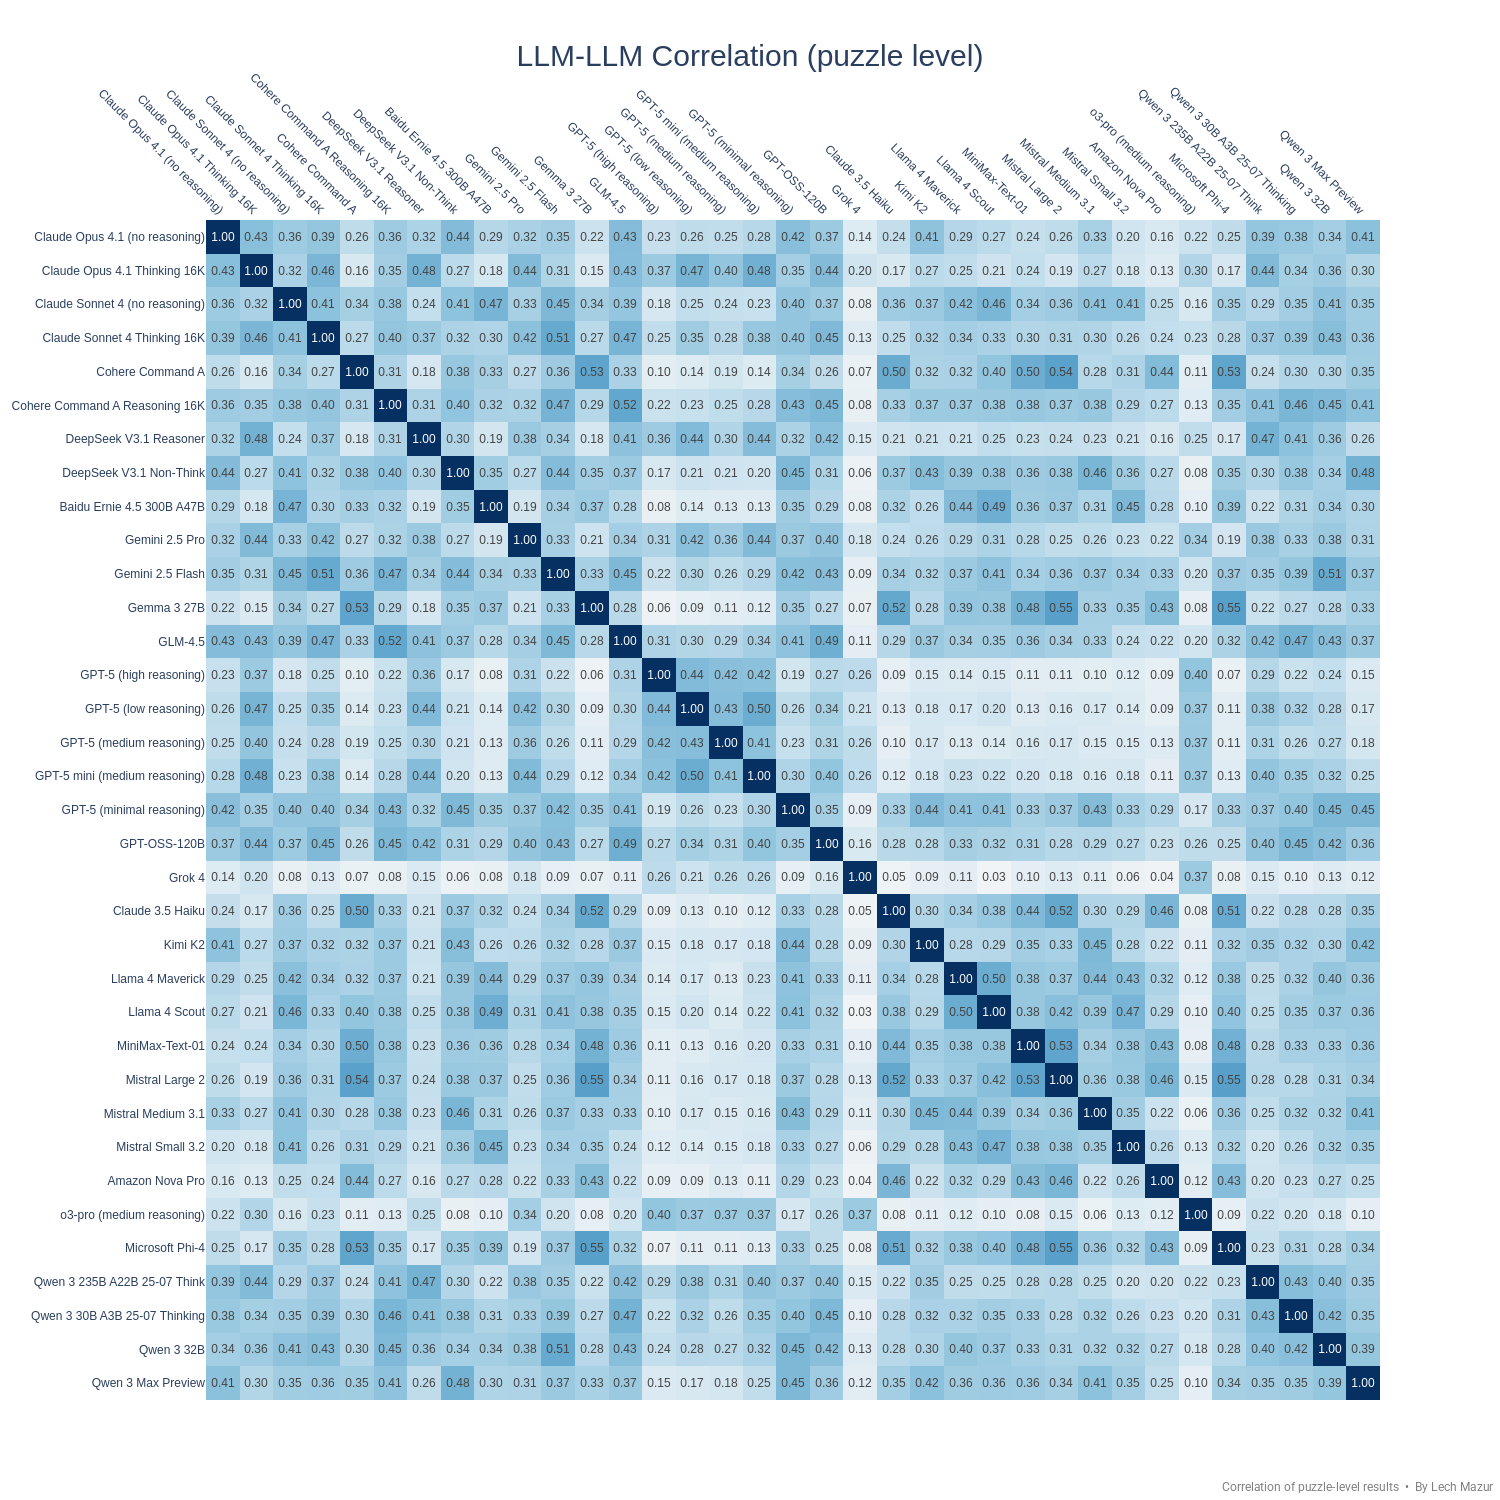
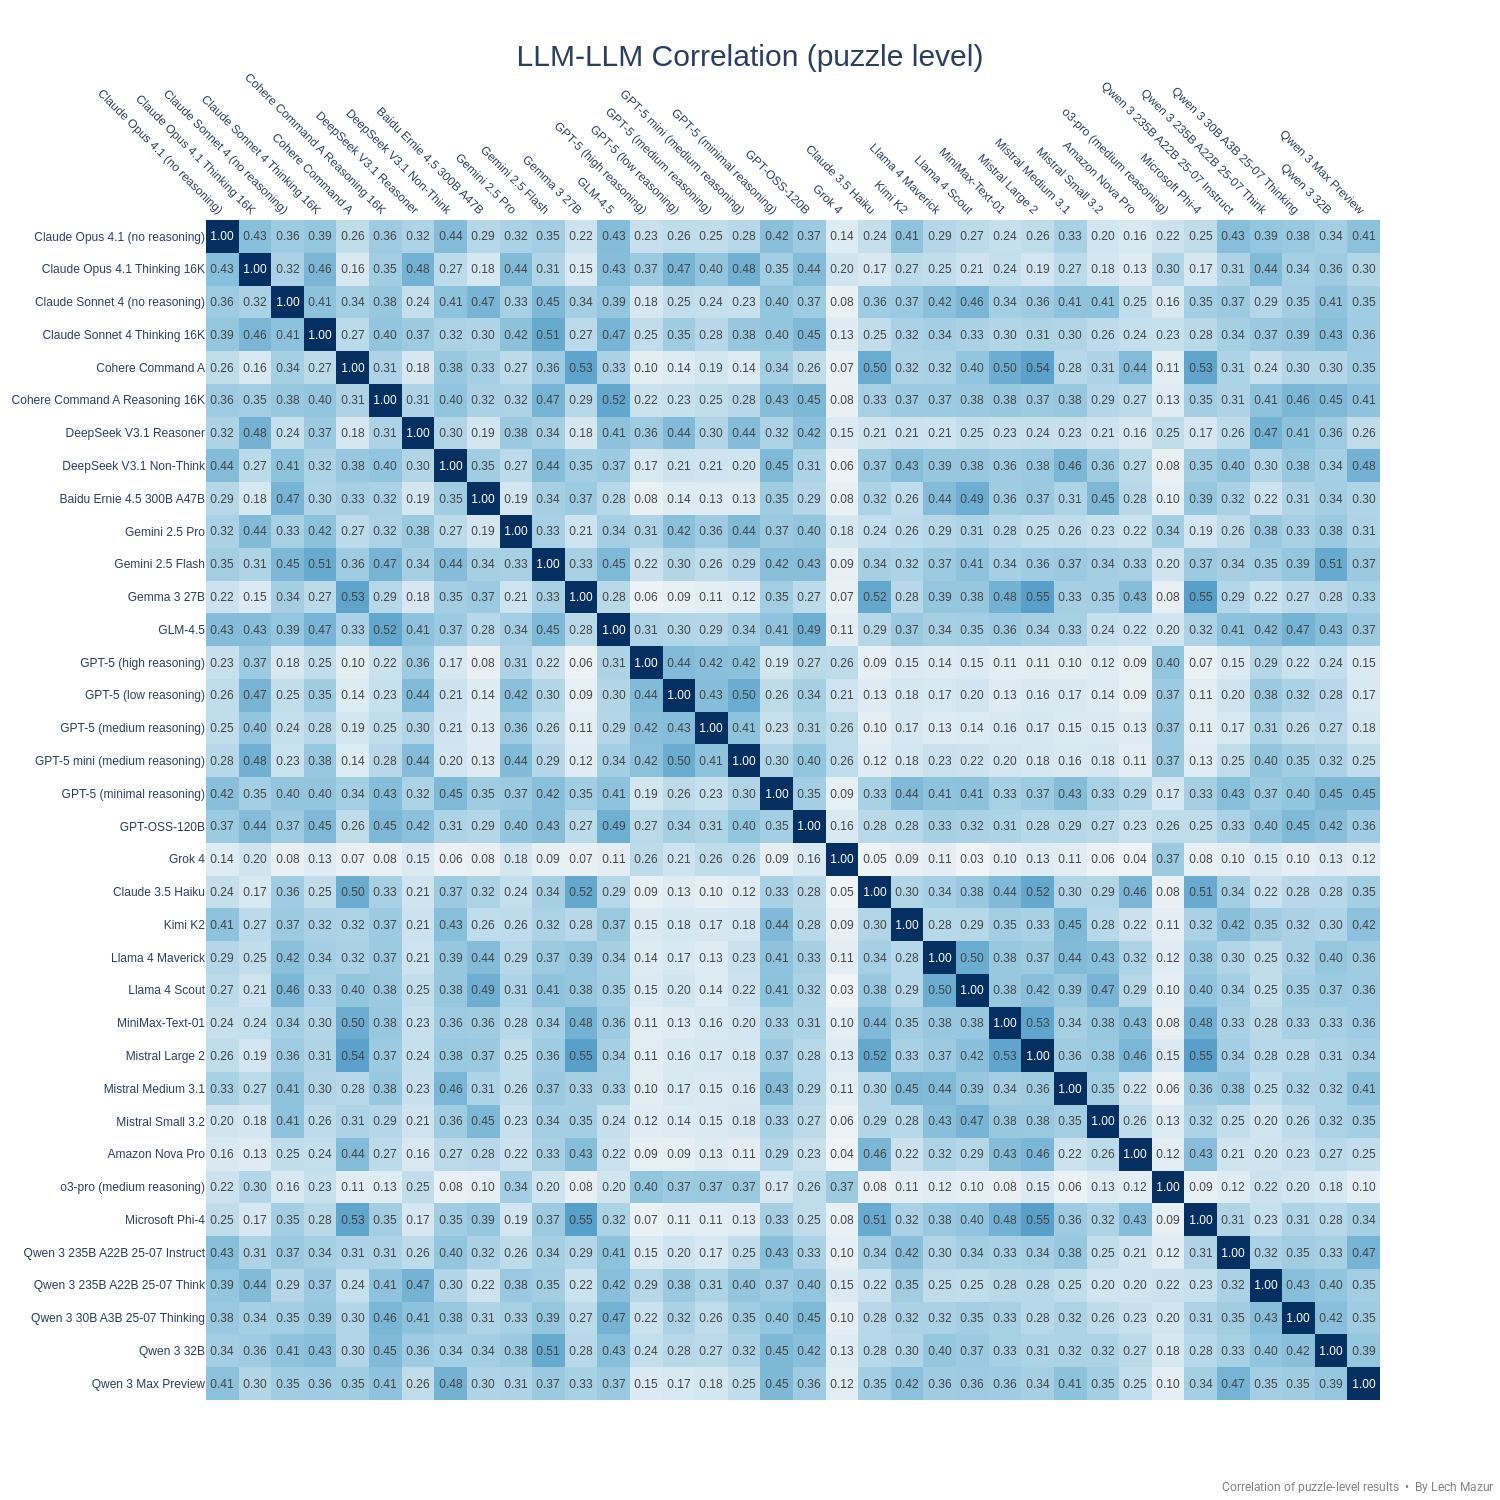
qwen 3 max preview

Changed region(s): [[0.0, 0.0613, 0.92, 0.9507]]

diff --git a/README.md b/README.md
@@ -65,42 +65,44 @@ As of Feb 4, 2025, there is a new version of the benchmark. The standard NYT Con
 |51|DeepSeek V3.1 Non-Think|21.6|759|
 |52|MiniMax-M1|21.3|688|
 |53|Kimi K2|19.8|759|
-|54|Grok 3 Beta (no reasoning)|19.7|759|
-|55|Grok 2 12-12|19.2|651|
-|56|Gemini 1.5 Pro (Sept)|19.2|601|
-|57|Claude 3 Opus|19.2|650|
-|58|Claude 3.7 Sonnet|19.2|651|
-|59|Gemini 2.0 Flash|18.8|651|
-|60|GPT-4o 2024-11-20|18.7|601|
-|61|Llama 4 Maverick|18.5|759|
-|62|Qwen 2.5 Max|18.0|651|
-|63|GPT-4o 2024-08-06|17.8|601|
-|64|Claude 3.5 Sonnet 2024-10-22|17.7|651|
-|65|Llama 4 Scout|17.4|759|
-|66|DeepSeek V3-0324|16.8|759|
-|67|Llama 3.1 405B|16.2|651|
-|68|Mistral Medium 3.1|15.2|759|
-|69|DeepSeek V3|15.1|651|
-|70|Llama 3.3 70B|15.1|651|
-|71|Baidu Ernie 4.5 300B A47B|14.8|759|
-|72|GPT-4.1 mini|14.4|759|
-|73|MiniMax-Text-01|13.8|759|
-|74|Cohere Command A|13.1|759|
-|75|Mistral Large 2|12.4|759|
-|76|Gemma 2 27B|12.2|651|
-|77|Gemma 3 27B|11.6|759|
-|78|Mistral Medium 3|11.5|759|
-|79|Mistral Small 3.1|11.4|651|
-|80|Mistral Small 3.2|11.2|759|
-|81|Qwen 2.5 72B|10.5|759|
-|82|Claude 3.5 Haiku|10.0|759|
-|83|Amazon Nova Pro|9.9|759|
-|84|Microsoft Phi-4|9.9|759|
-|85|GPT-4o mini|9.7|759|
-|86|Mistral Small 3|8.9|601|
-|87|GPT-4.1 nano|8.1|759|
-|88|GLM4-32B-0414|7.6|759|
-|89|Claude 3 Haiku|2.2|601|
+|54|Qwen 3 235B A22B 25-07 Instruct|19.8|759|
+|55|Grok 3 Beta (no reasoning)|19.7|759|
+|56|Grok 2 12-12|19.2|651|
+|57|Gemini 1.5 Pro (Sept)|19.2|601|
+|58|Claude 3 Opus|19.2|650|
+|59|Claude 3.7 Sonnet|19.2|651|
+|60|Gemini 2.0 Flash|18.8|651|
+|61|GPT-4o 2024-11-20|18.7|601|
+|62|Llama 4 Maverick|18.5|759|
+|63|Qwen 2.5 Max|18.0|651|
+|64|GPT-4o 2024-08-06|17.8|601|
+|65|Claude 3.5 Sonnet 2024-10-22|17.7|651|
+|66|Llama 4 Scout|17.4|759|
+|67|DeepSeek V3-0324|16.8|759|
+|68|Llama 3.1 405B|16.2|651|
+|69|Mistral Medium 3.1|15.2|759|
+|70|DeepSeek V3|15.1|651|
+|71|Llama 3.3 70B|15.1|651|
+|72|Baidu Ernie 4.5 300B A47B|14.8|759|
+|73|GPT-4.1 mini|14.4|759|
+|74|MiniMax-Text-01|13.8|759|
+|75|Cohere Command A|13.1|759|
+|76|Mistral Large 2|12.4|759|
+|77|Gemma 2 27B|12.2|651|
+|78|Gemma 3 27B|11.6|759|
+|79|Mistral Medium 3|11.5|759|
+|80|Mistral Small 3.1|11.4|651|
+|81|Mistral Small 3.2|11.2|759|
+|82|Qwen 2.5 72B|10.5|759|
+|83|Claude 3.5 Haiku|10.0|759|
+|84|Amazon Nova Pro|9.9|759|
+|85|Microsoft Phi-4|9.9|759|
+|86|GPT-4o mini|9.7|759|
+|87|Mistral Small 3|8.9|601|
+|88|GPT-4.1 nano|8.1|759|
+|89|GLM4-32B-0414|7.6|759|
+|90|Claude 3 Haiku|2.2|601|
+
 
 
 
@@ -208,7 +210,7 @@ This benchmark evaluates large language models (LLMs) using 436 NYT Connections 
 ---
 
 ## Updates
-- Sep 5, 2025: Qwen 3 Max Preview added.
+- Sep 5, 2025: Qwen 3 Max Preview, Qwen 3 235B A22B 25-07 Instruct added.
 - Aug 23, 2025: GPT-5 high reasoning and Cohere Command A Reasoning (16K) added.
 - Aug 22, 2025: DeepSeek 3.1, Qwen 3 30B A3B 25-07, Mistral Medium 3.1, GPT-5 minimal and low reasoning added.
 - Aug 7, 2025: GPT-5 added.
